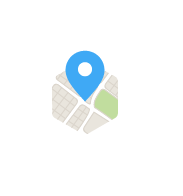
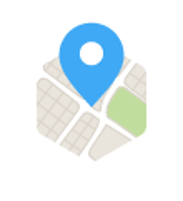
Elimina los paddings de la imágen de la sección Encuentra

Changed region(s): [[0.1913, 0.0918, 0.8197, 0.7959]]

diff --git a/app/assets/stylesheets/components/_landing.scss b/app/assets/stylesheets/components/_landing.scss
@@ -84,10 +84,11 @@ img.thumbnail-icon {
 }
 
 .map-icon{
-  width: 55px;
+  width: 68px;
   display: block;
-  max-width: 55px;
   height: auto;
+  margin-top: 5px;
+  margin-left: 11px;
 }
 
 .map-landing{
